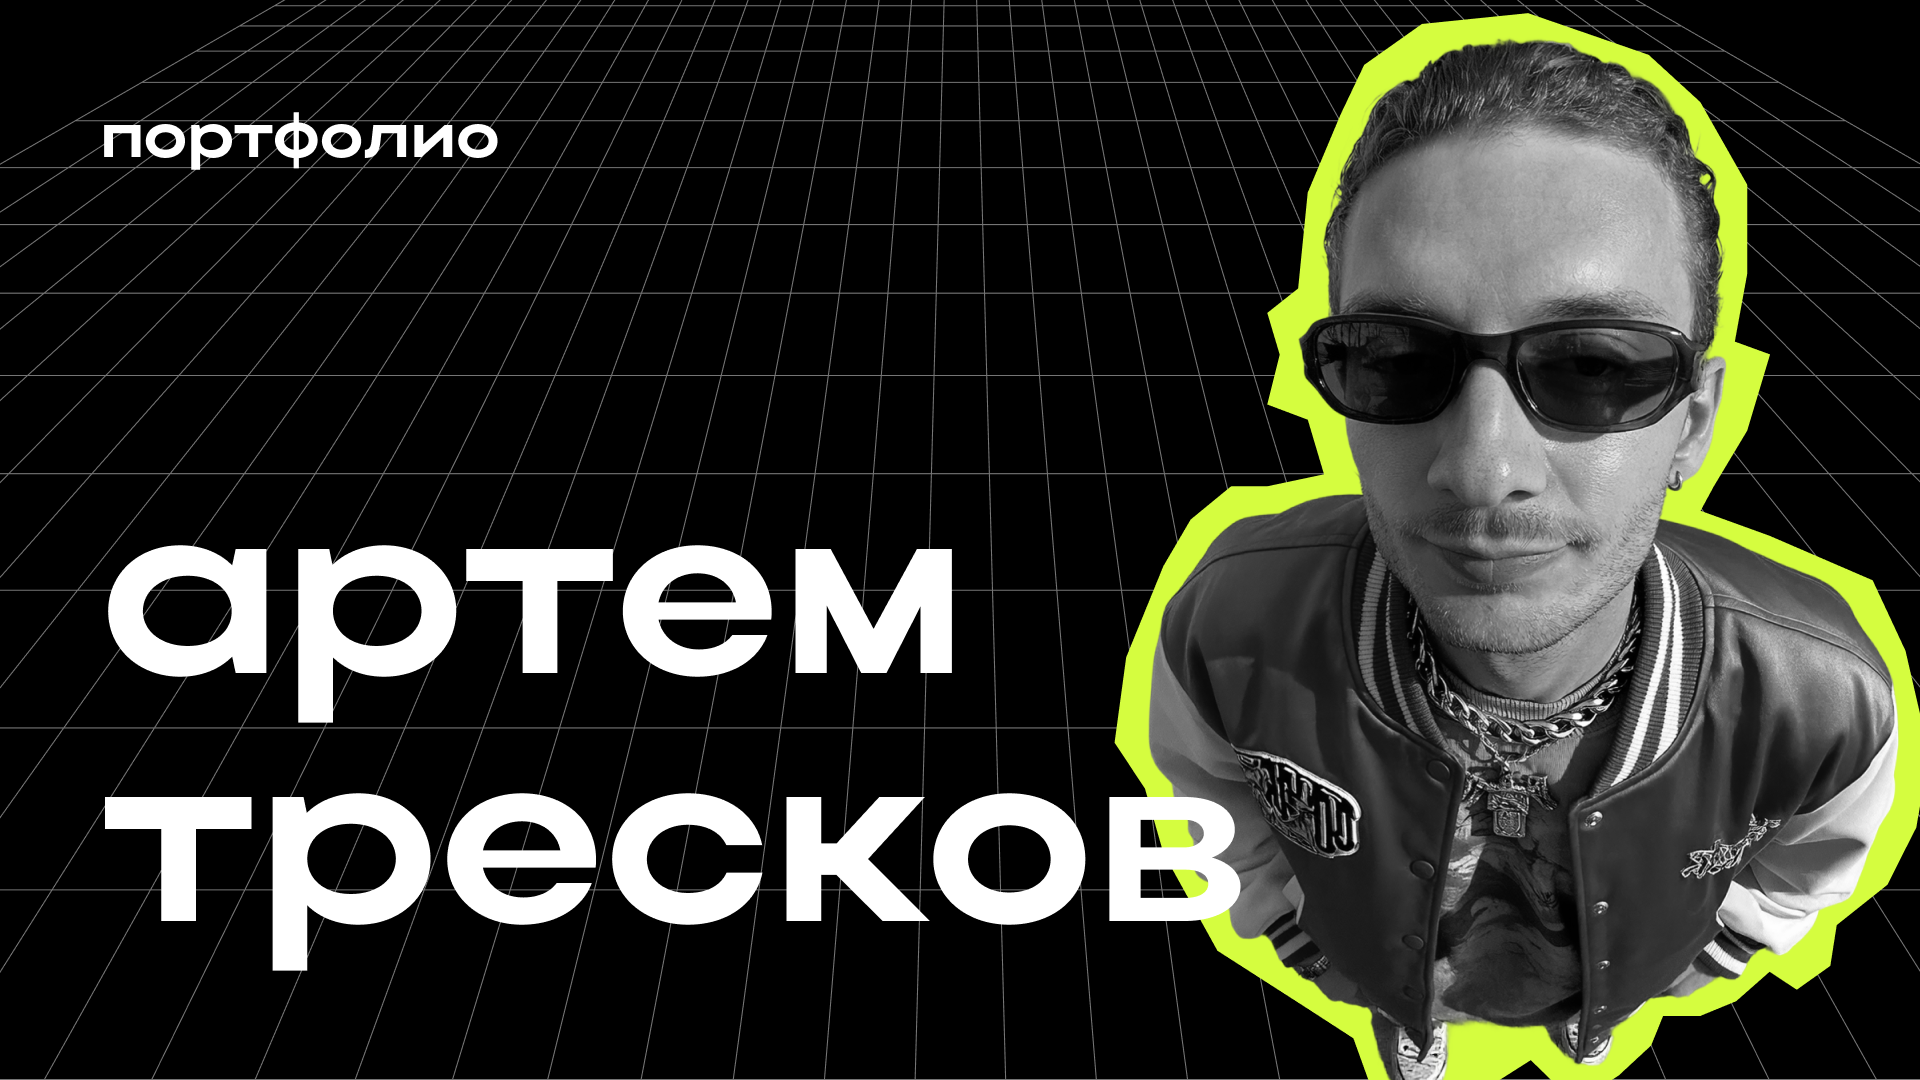
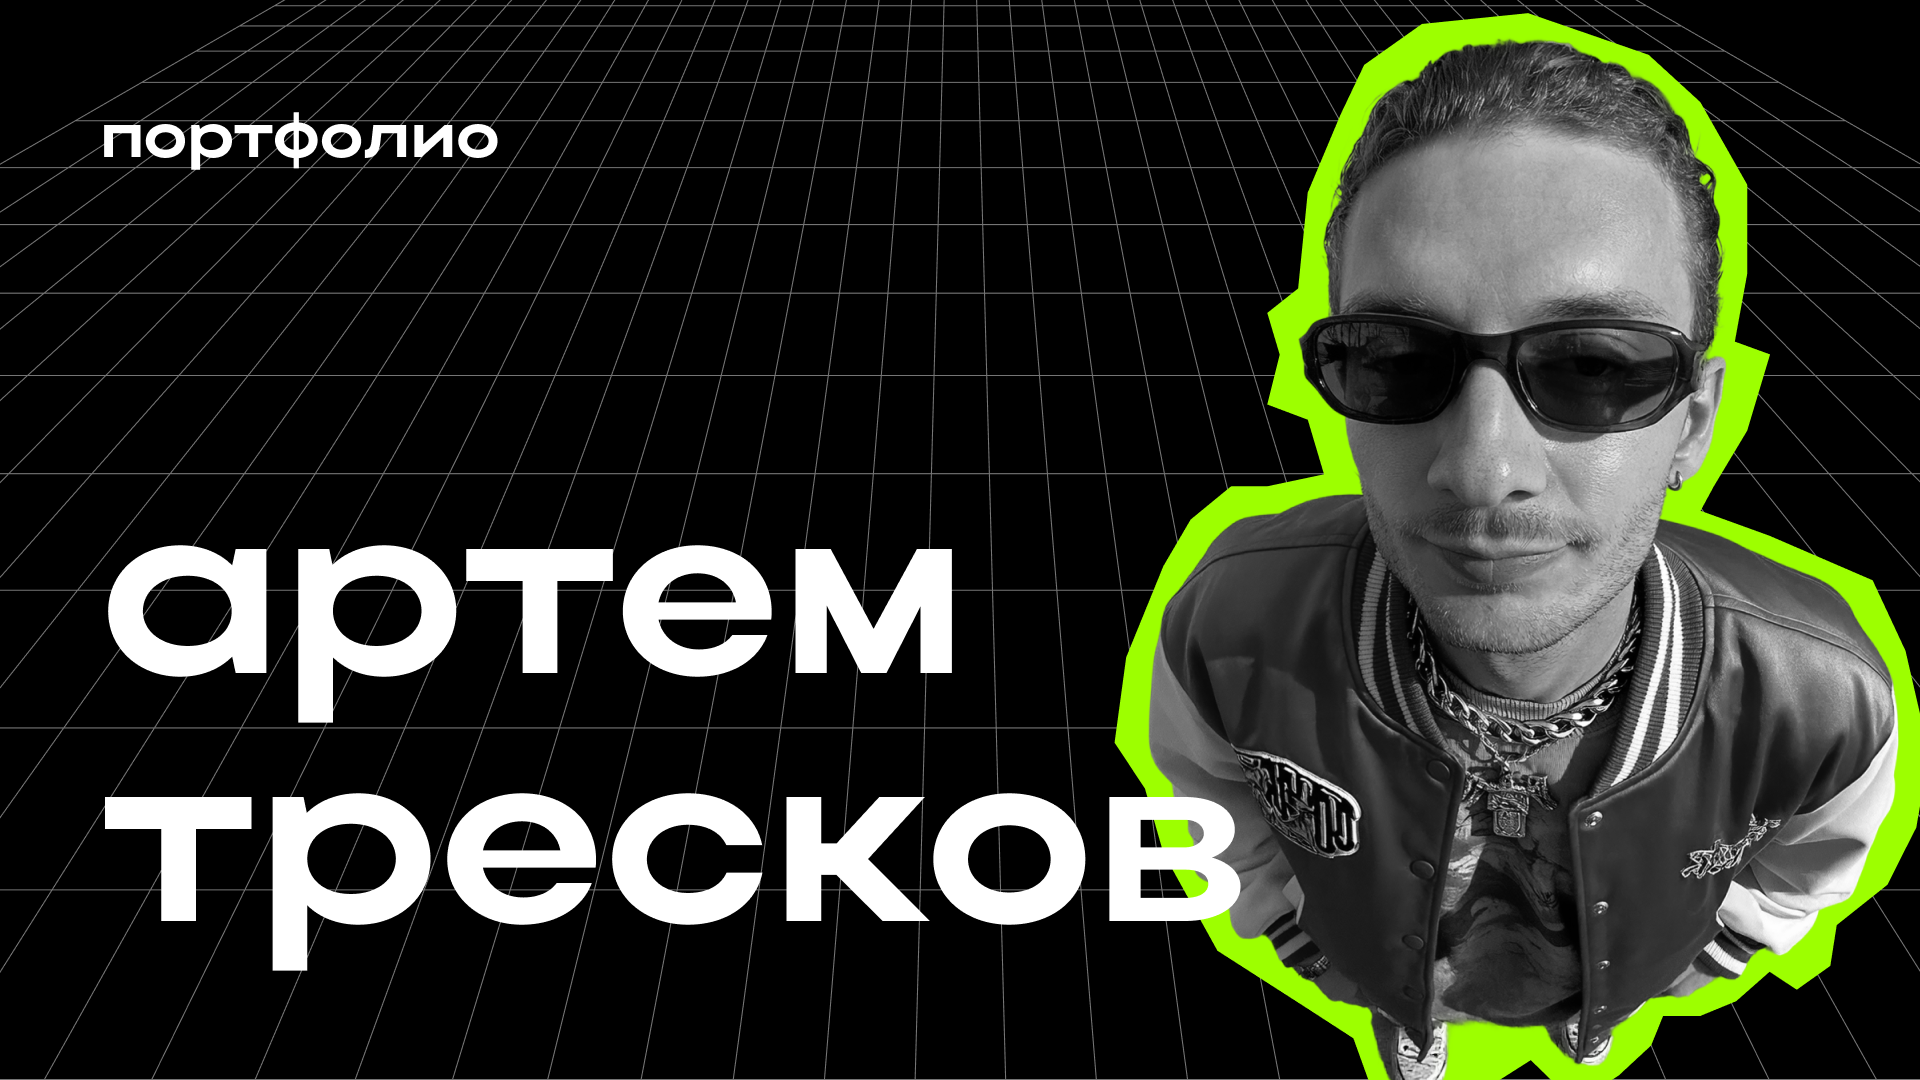
Refine styles and hover effects: update colors, improve transitions, and optimize asset structure.

diff --git a/src/index.html b/src/index.html
@@ -7,11 +7,11 @@
     <meta charset="utf-8" />
     <meta content="width=device-width, initial-scale=1.0" name="viewport" />
 
-    <meta property="og:title" content="port-heaven — дизайнерское портфолио Артема Трескова">
-    <meta property="og:description" content="Дизайн интерфейсов, анимации, прототипы и креативные концепты.">
-    <meta property="og:image" content="https://raw.githubusercontent.com/d1eruki/port-heaven/master/meta/preview.png">
-    <meta property="og:type" content="website">
-    <meta property="og:url" content="https://d1eruki.github.io/port-heaven/">
+    <meta property="og:title" content="port-heaven — дизайнерское портфолио Артема Трескова" />
+    <meta property="og:description" content="Дизайн интерфейсов, анимации, прототипы и креативные концепты." />
+    <meta property="og:image" content="https://raw.githubusercontent.com/d1eruki/port-heaven/master/meta/preview.png" />
+    <meta property="og:type" content="website" />
+    <meta property="og:url" content="https://d1eruki.github.io/port-heaven/" />
 
     <link href="assets/images/favicon.png" rel="icon" />
     <link rel="preconnect" href="https://fonts.googleapis.com" />

diff --git a/src/js/vue-components/designs.vue b/src/js/vue-components/designs.vue
@@ -4,7 +4,7 @@
       <h4 class="flex gap-3">
         {{ designName }}
       </h4>
-      <div class="top-75 right-15 bottom-15 left-15 flex flex-wrap gap-5 self-end lg:absolute lg:flex lg:group-hover:hidden">
+      <div class="top-75 right-15 bottom-15 left-15 flex flex-wrap gap-5 self-end opacity-100 transition-all duration-100 ease-in-out lg:absolute lg:flex lg:group-hover:opacity-0">
         <div v-for="(tag, index) in designTags" :key="index" class="light:text-(--color-grey) flex gap-2.5">
           <small class="flex gap-2.5">
             <span v-if="isAdaptiveLanding(tag)" class="icon-[fa7-solid--mobile-screen]"></span>
@@ -13,7 +13,7 @@
           </small>
         </div>
       </div>
-      <p class="right-15 bottom-15 left-15 block self-end lg:absolute lg:hidden lg:group-hover:block">{{ designDesc }}</p>
+      <p class="right-15 bottom-15 left-15 block self-end transition-all duration-100 ease-in-out lg:absolute lg:opacity-0 lg:group-hover:opacity-100">{{ designDesc }}</p>
     </div>
   </a>
 </template>

diff --git a/src/script.js b/src/script.js
@@ -1,11 +1,11 @@
 import "./style.css";
 import "./js/libraries/vue";
 import "./js/libraries/yandex-metrika";
+import "./js/libraries/lenis";
+import "./js/libraries/vanilla-tilt";
 import "./js/custom/theme-toggle";
 import "./js/custom/locale-toggler";
-import "./js/libraries/vanilla-tilt";
 import "./js/custom/cursor";
 import "./js/custom/scroll-section";
 import "./js/custom/sections";
-import "./js/libraries/lenis";
 import "./js/custom/scroll-to-top";

diff --git a/src/js/vue-components/creatives.vue b/src/js/vue-components/creatives.vue
@@ -1,6 +1,6 @@
 <template>
   <div class="vanilla-tilt-creatives group h-fit hover:z-100" :style="computedStyle">
-    <img class="grayscale transition-all duration-1000 ease-in-out group-hover:grayscale-0" :src="creativeSrc" alt="post-card" />
+    <img class="transition-all duration-1000 ease-in-out lg:grayscale lg:group-hover:grayscale-0" :src="creativeSrc" alt="post-card" />
   </div>
 </template>
 

diff --git a/src/styles/core.css b/src/styles/core.css
@@ -14,8 +14,8 @@
   --cursor-size-label: 150px;
 
   /* colors (HSL) */
-  --color-purple: hsl(253 99% 62%);
-  --color-yellow: hsl(73, 99%, 62%);
+  --color-purple: hsl(265 100% 50%);
+  --color-yellow: hsl(83, 100%, 50%);
   --color-grey: hsl(0 0% 50%);
   --color-grey-light: hsl(0 0% 70%);
   --color-grey-lighter: hsl(0 0% 95%);
